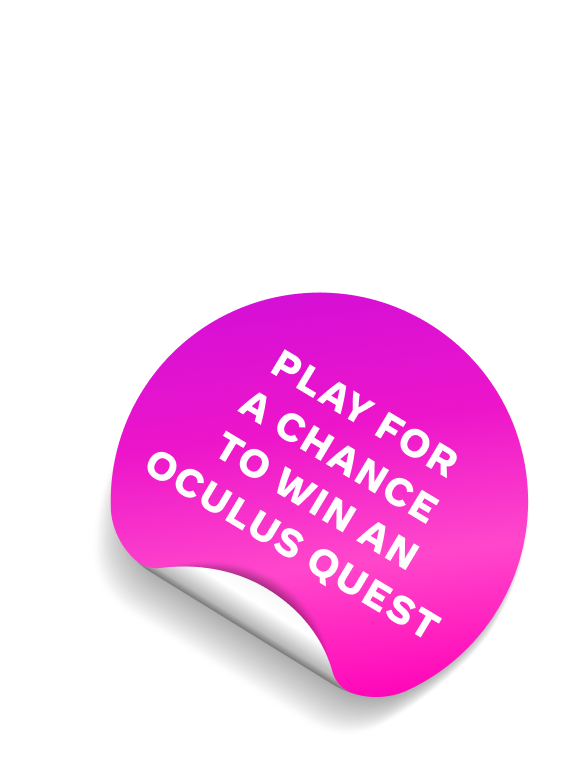
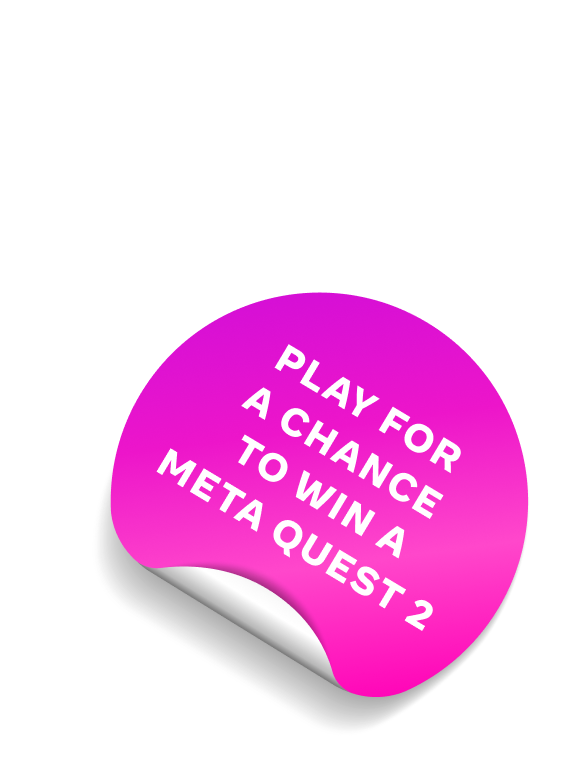
fix: update finish page and sticker typo

Changed region(s): [[0.2386, 0.433, 0.8053, 0.8351]]

diff --git a/client/src/pages/finish/finish.tsx b/client/src/pages/finish/finish.tsx
@@ -50,7 +50,7 @@ export default function Finish(props: { resetTimer: () => void }) {
             </FinishCode>
             <p>
               <FadeIn delay={1.75}>
-                Try out this code to see if you win an Oculus Quest
+                Try out this code to see if you win an Meta Quest 2
               </FadeIn>
             </p>
             <FadeIn delay={2.5}>
